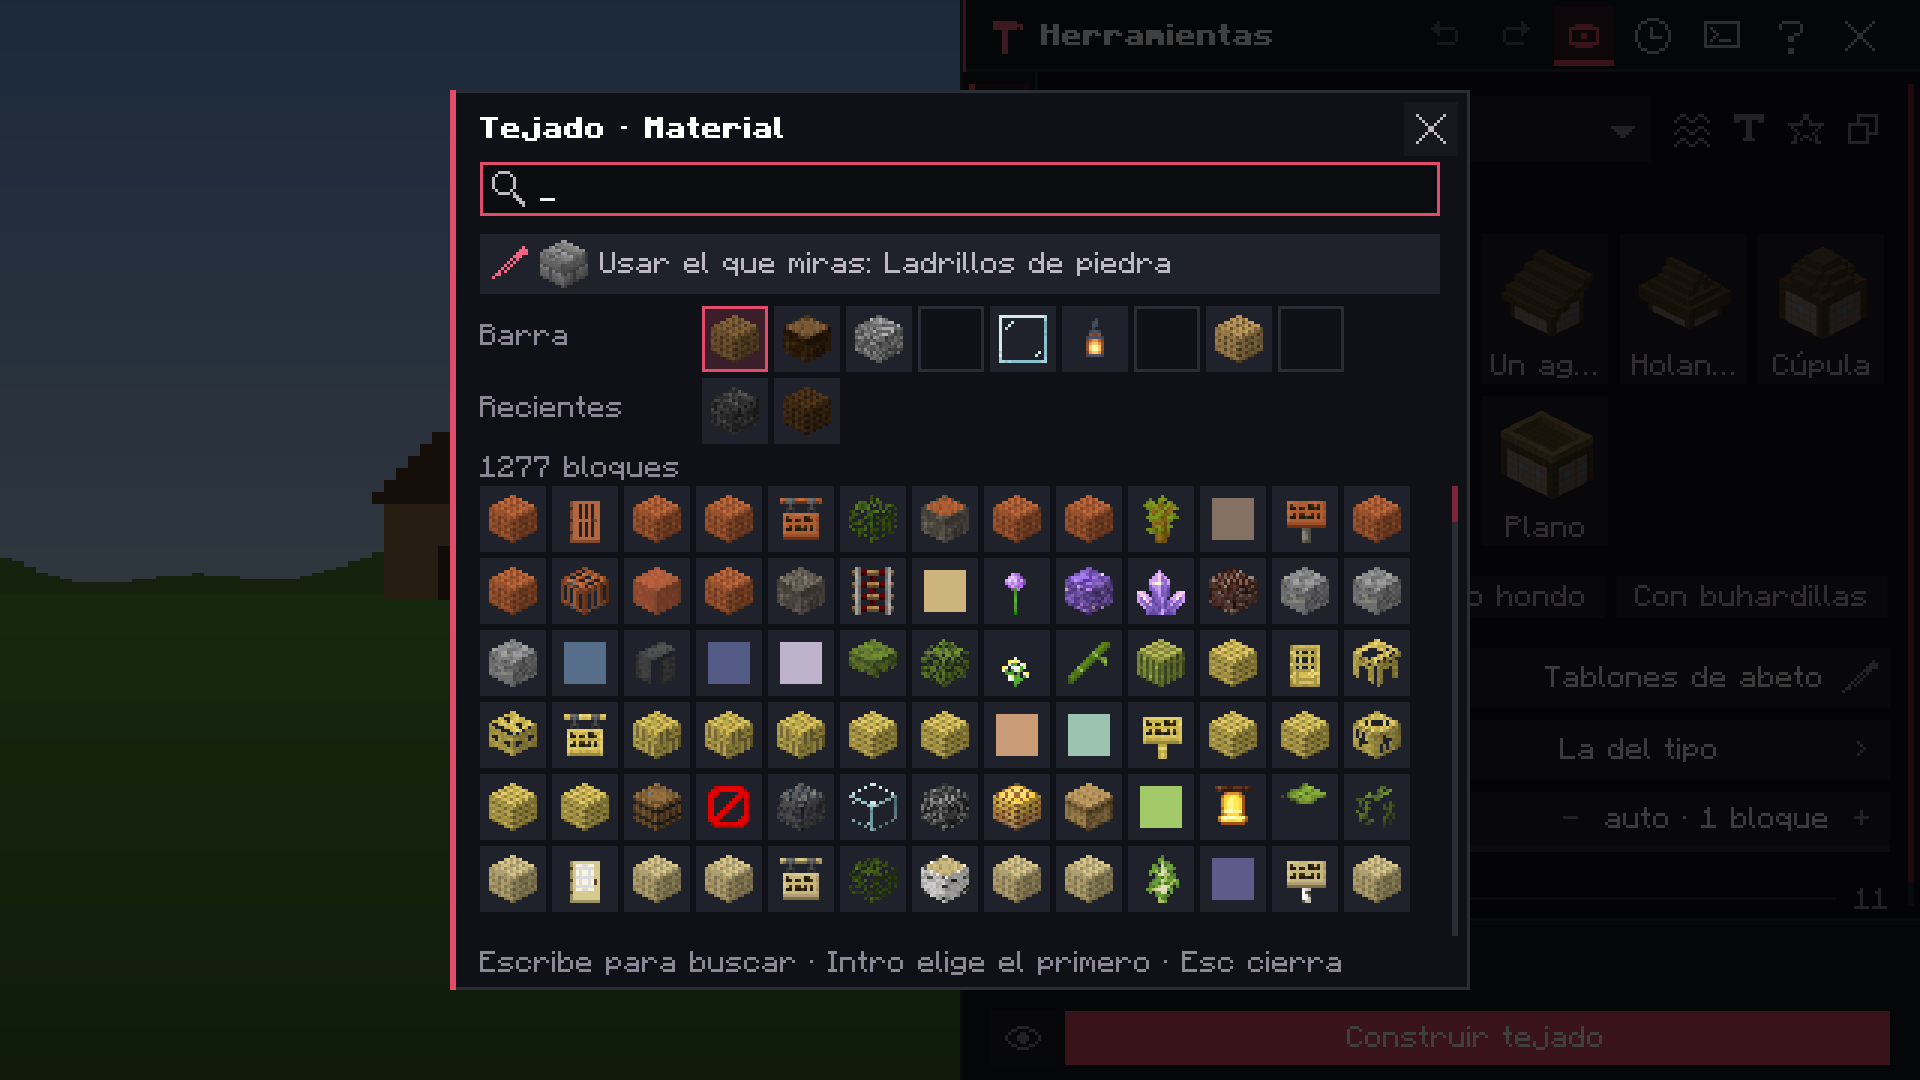
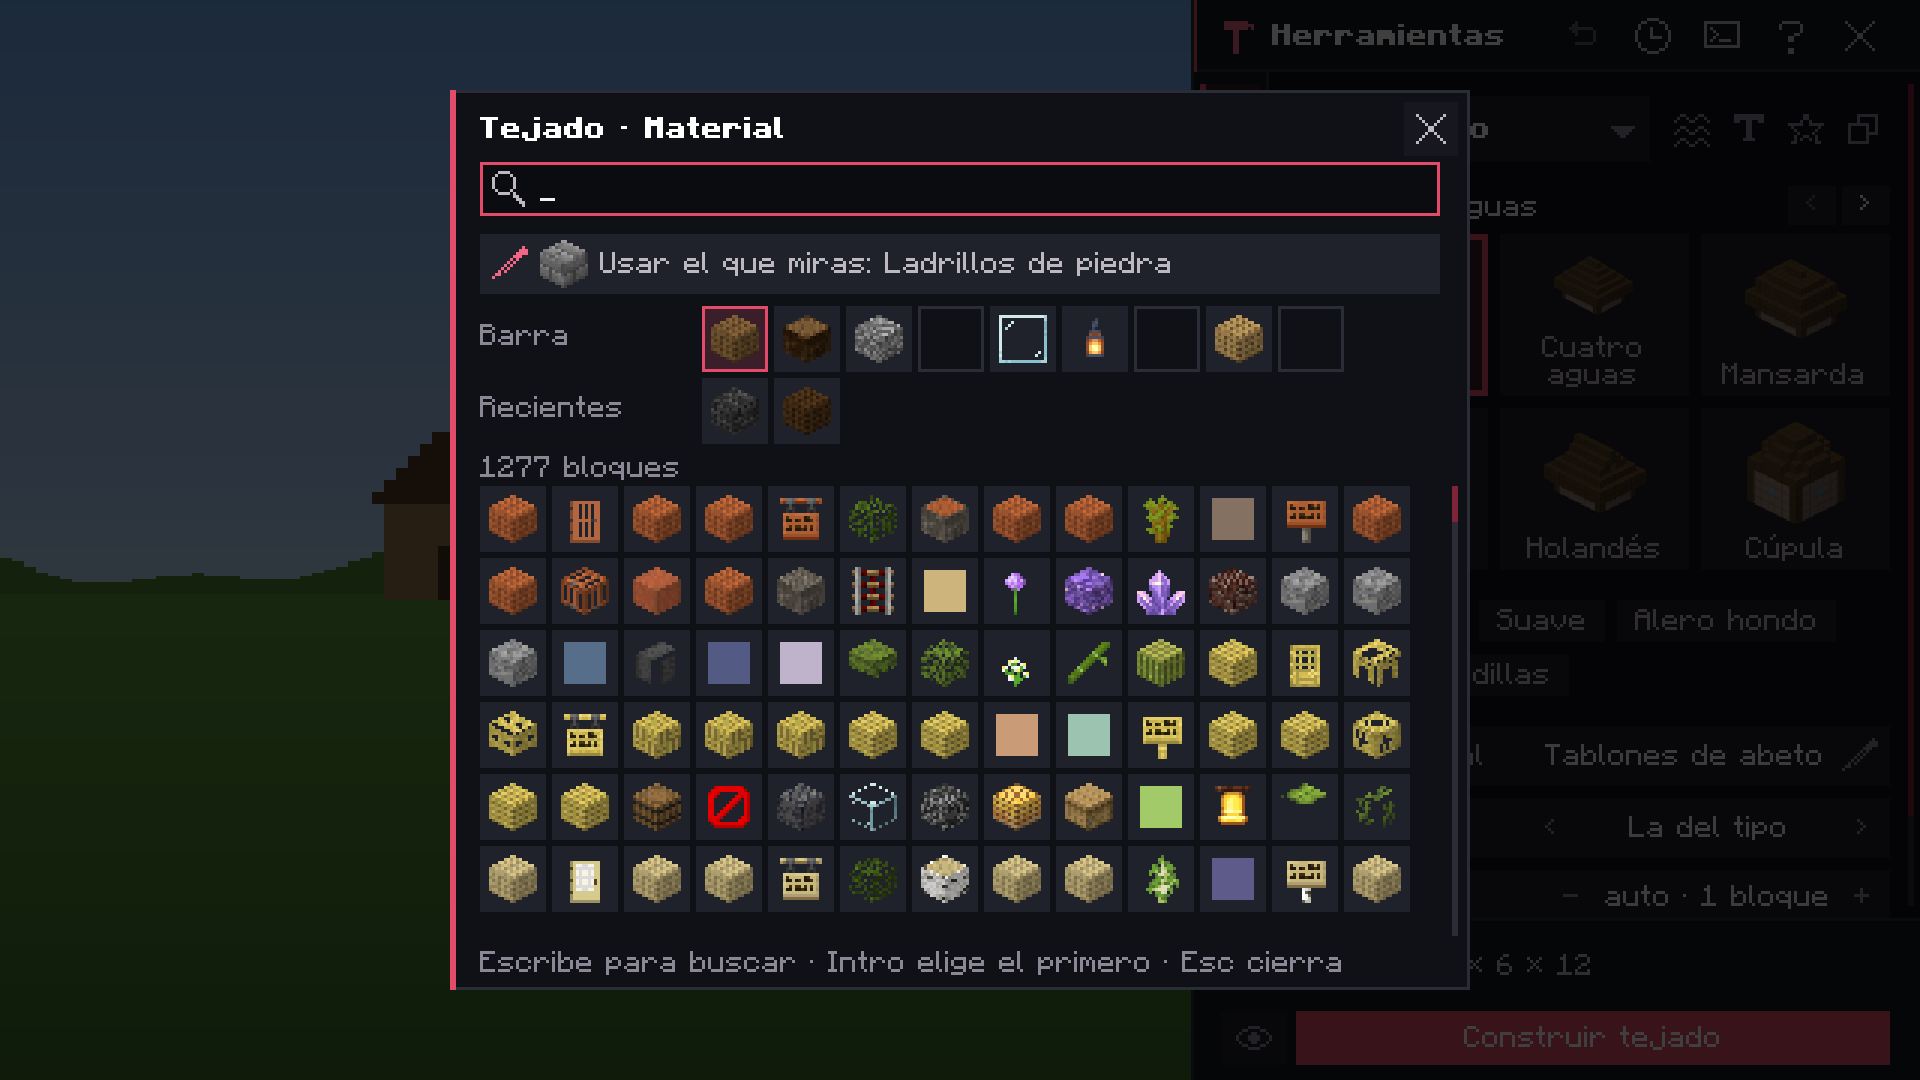
Studio: documentación y maquetas al día con el panel al 38 % y los nombres enteros
- MOD_DOCUMENTATION y CHANGELOG: ancho del panel (38 % de serie, arrastre con asa, clic derecho), lista de etapas al pasar el ratón, nombres en dos líneas y galerías completas con un panel alto; GalleryNamesTest en el apartado de pantallas pequeñas.
- Interruptores con la etiqueta en dos líneas si no cabe; los valores de los ciclos se ajustan con «…»; «Sol de ahora» en vez de «Sol (hora del mundo)».
- Maquetas regeneradas en docs/renders/studio (más la lista de etapas, la cuadrícula de figuras y 1080p con GUI 2).

diff --git a/src/main/java/com/komainu/moxia/studio/ui/StudioUi.java b/src/main/java/com/komainu/moxia/studio/ui/StudioUi.java
@@ -700,7 +700,7 @@ public final class StudioUi {
         label(label, row.x() + 8, row.centerY() - 4, previous.x() - row.x() - 12, hovered ? TEXT : TEXT_SECONDARY);
         stepButton(previous, "‹");
         stepButton(next, "›");
-        centered(value, shown, modified ? WHITE : TEXT);
+        centered(fit(value, shown.width() - 2), shown, modified ? WHITE : TEXT);
         Rect zone = new Rect(previous.x(), row.y(), row.right() - previous.x(), row.height());
         return register(row)
                 .valueZone(zone)
@@ -730,7 +730,7 @@ public final class StudioUi {
         if (modified) {
             fill(new Rect(row.x() + 3, row.centerY() - 1, 2, 2), ACCENT);
         }
-        label(label, row.x() + 8, row.centerY() - 4, track.x() - row.x() - 12, on || hovered ? TEXT : TEXT_SECONDARY);
+        nameLabel(label, row.x() + 8, row, track.x() - row.x() - 12, on || hovered ? TEXT : TEXT_SECONDARY);
         return register(row);
     }
 

diff --git a/docs/MOD_DOCUMENTATION.md b/docs/MOD_DOCUMENTATION.md
@@ -34,13 +34,16 @@ Procedural Studio se abre con `K` y permite construir mientras el mundo sigue vi
 Todo el Studio vive en un único panel opaco pegado a la derecha; el resto de la pantalla es el mundo, sin nada encima, así que el chat de abajo a la izquierda queda a la vista y el marcador del servidor no se transparenta por detrás del panel. El panel se lee de arriba abajo: **qué haces** (la barra con la etapa), **qué ajustas** (el contenido) y **qué pasa al pulsar** (el pie).
 
 - **Barra de arriba:** el icono y el nombre de la etapa y, a la derecha, deshacer y rehacer ajustes, el holograma, el **historial del mundo**, la **paleta de órdenes**, la chuleta de atajos y cerrar. Cada botón dice su atajo al pasar el ratón. Con el panel estrecho (menos de 300 píxeles) se quedan los cinco imprescindibles.
-- **Etapas** (columna izquierda): los tres grupos con su nombre encima y cada etapa con su icono, su nombre y su tecla (`1` Herramientas, `2` Trayectoria, `3` Figuras, `4` Modificadores, `5` Material, `6` Color, `7` Envejecer, `8` Planos, `9` Recetas y `0` Instancias). Si el panel no da para los nombres, se quedan los iconos con una raya entre grupo y grupo, y el nombre y la tecla salen en el tooltip. La etapa **Color** (degradados, bloques parecidos y sombreado) se explica en [Color y sombreado](#color-y-sombreado), y **Planos**, en [Etapa Planos del Studio](#etapa-planos-del-studio).
+- **Etapas** (columna izquierda): los tres grupos con su nombre encima y cada etapa con su icono, su nombre y su tecla (`1` Herramientas, `2` Trayectoria, `3` Figuras, `4` Modificadores, `5` Material, `6` Color, `7` Envejecer, `8` Planos, `9` Recetas y `0` Instancias). Si el panel no da para los nombres, se quedan los iconos con una raya entre grupo y grupo, y al pasar el ratón por la columna sale a su lado la lista con el nombre y la tecla de cada etapa, a la altura de su icono (un clic en un nombre abre la etapa). La etapa **Color** (degradados, bloques parecidos y sombreado) se explica en [Color y sombreado](#color-y-sombreado), y **Planos**, en [Etapa Planos del Studio](#etapa-planos-del-studio).
 - **Contenido:** las secciones de la etapa, desplazables con la rueda (una barra fina a la derecha indica cuánto queda). Las secciones plegables (**Más ajustes**, **Cómo se usa**…) recuerdan si estaban abiertas.
 - **Pie** (abajo, siempre visible): sobre qué se trabaja (la selección con su tamaño, los puntos de la trayectoria o el bloque que miras), la estimación **≈ N bloques**, el último mensaje unos segundos y el botón principal de la etapa: **Construir**, **Colocar plano**, **Sombrear selección** o **Envejecer selección**. Si falta algo, el botón sale apagado y dice qué («Faltan 2 puntos», «Falta la selección», «Elige una herramienta»). Mientras algo tuyo está en marcha, el pie enseña su progreso (ver [Progreso en el pie](#progreso-en-el-pie)). Los textos del pie se acortan quitando lo menos importante, nunca a medias.
-- El borde izquierdo del panel se arrastra para cambiar su ancho (entre 300 y 470 píxeles de GUI, sin pasar de media pantalla); el ancho se recuerda.
+- **Ancho del panel:** de serie, el 38 % de la pantalla, para dejar el mundo a la vista (a 1080p con GUI 3, 243 de 640 píxeles de GUI; antes era la mitad). El borde izquierdo, con un asa a media altura, se arrastra entre 230 píxeles y el 45 % de la pantalla (470 como mucho); lo elegido se guarda en `studio.json` como parte de la pantalla, así que vale igual con otra escala de GUI. Clic derecho en el borde: el de serie.
+- **Los nombres se leen enteros:** en las galerías, las cuadrículas de herramientas y figuras y la biblioteca de planos, un nombre que no cabe en una línea va en dos (partido por palabras; los planos, tras `_` o `-`), y si ni así cabe, la cuadrícula pone menos columnas.
 - **Trayectoria** cuenta los nodos (`3 / 32 nodos`), dice si está abierta o cerrada y tiene **Añadir aquí**, **Deshacer punto**, **Cerrar / Abrir trayectoria** y **Limpiar**, la lista de nodos con sus coordenadas (un clic elige el nodo para moverlo con sus flechas) y **Usar con**: Figura, Río, Rampa, Árbol o Loft, que lleva a esa etapa o herramienta con los puntos ya puestos. «Cómo se usa» el puntero queda plegado.
 - El nombre de la receta, **Guardar** y la exportación o importación de `.krecipe` están en la etapa **Recetas**; Construir usa ese mismo nombre.
 - Los interruptores (Fusión, Kitbash, Cerrar huecos, Quitar bloques sueltos, Invertir dirección, Agua estancada) son filas con un pulsador a la derecha. Fusión y Kitbash solo enseñan sus ajustes cuando están activados, y Alcance y Separación solo con un modo de superficie.
+
+![Nombres de las etapas al pasar el ratón por los iconos](renders/studio/1080p_gui3_navegacion_es.png)
 
 ### Encontrar figuras
 
@@ -119,8 +122,8 @@ La etapa **Herramientas** (`1`) lleva al Studio las herramientas que antes solo 
 | Utilidades | Texto, Materiales, Gravedad, Nieve, Drenar, Inundar, Bioma | `text`, `analyze`, `gravity`, `snow`, `drain`, `waterlog`, `biome` (y `pincel biome`) |
 | Modos | Simetría, Capacidades | `symmetry on <modo>`, `off`, `center …`, `worldedit on\|off`; `capability <id> on\|off`, `capability option …` |
 
-- **Elegir:** sin herramienta elegida, la etapa es una cuadrícula de iconos con su nombre, agrupada como en la tabla (con ★ Favoritas arriba si hay) y con un buscador (`Ctrl+F` o `/`) por nombre, orden, alias y descripción, sin tildes. Al elegir una, la cuadrícula se pliega en una fila con su icono y su nombre (pulsarla la vuelve a abrir), sus **recientes** para cambiar de un clic, la ★ y **copiar la orden** al portapapeles.
-- **Miniaturas:** lo que se elige viendo sale como galería de miniaturas con el nombre debajo, dibujadas por el propio generador: las especies de árbol (con `TreeGrower`), los tipos de roca (`RockShaper`), los tipos de tejado sobre una casa de 9×7 (`RoofGenerator`) y los 20 sellos de relieve. Se pintan en segundo plano la primera vez y luego se reutilizan. Con muchas, la galería pasa de página con ‹ ›.
+- **Elegir:** sin herramienta elegida, la etapa es una cuadrícula de iconos con su nombre entero (en dos líneas si hace falta), agrupada como en la tabla (con ★ Favoritas arriba si hay) y con un buscador (`Ctrl+F` o `/`) por nombre, orden, alias y descripción, sin tildes. Al elegir una, la cuadrícula se pliega en una fila con su icono y su nombre (pulsarla la vuelve a abrir), sus **recientes** para cambiar de un clic, la ★ y **copiar la orden** al portapapeles.
+- **Miniaturas:** lo que se elige viendo sale como galería de miniaturas con el nombre debajo, dibujadas por el propio generador: las especies de árbol (con `TreeGrower`), los tipos de roca (`RockShaper`), los tipos de tejado sobre una casa de 9×7 (`RoofGenerator`) y los 20 sellos de relieve. Se pintan en segundo plano la primera vez y luego se reutilizan. Bajo cada una, su nombre entero: la galería pone tantas columnas como dejen caber cada nombre en dos líneas como mucho («Cuatro aguas», «Roble oscuro»). Con un panel alto (380 píxeles de contenido o más, como 1080p con GUI 2) se ven todas las opciones a la vez; si no, dos filas (una en compacto) y ‹ › para pasar de página, que empieza siempre por la elegida.
 - **Ajustes esenciales** a la vista y el resto en **Más ajustes**, plegado, con cuántos hay o cuántos has cambiado («2 cambiados»). Solo salen los ajustes que usa la opción elegida (la altura de la cúpula no sale en un tejado a dos aguas). Los números **auto** no llevan bandera: vale el de la herramienta (la altura de la especie, el radio del tipo de roca…) y se ve en gris junto a «auto».
 - **Presets** (una fila de pastillas: Joven, Viejo, Azotado, Pelado; Empinado, Con buhardillas…; el tooltip dice qué cambian), **Azar** (`R`) para una semilla nueva y, en árboles y rocas, los **presets guardados** del jugador (`#nombre`). En **Más ajustes**, las acciones: **Al pincel** (árbol, roca, bioma), **Estimar** (tejado, loft y terreno, con `-e`), **Guardar preset** y, en simetría, **Desactivar**, **Centro aquí**, **Entre bloques** y **Centro de la selección**.
 - **Bloques:** cada bloque es una fila con su icono, su nombre traducido y un **cuentagotas** que pone el bloque que miras. Si no hay bloque elegido, la fila dice qué se usará («Como el tejado», «El de los muros», «De la familia del material»). Al pulsar la fila se abre la **biblioteca de bloques** (ver [Elegir bloques](#elegir-bloques)).
@@ -149,7 +152,7 @@ La biblioteca de bloques se abre al pulsar cualquier fila de bloque (material de
 
 ### Lo que se recuerda
 
-En `config/komaedit/studio.json`, por jugador y en su equipo: la etapa y la herramienta en las que lo dejaste, **los ajustes de cada herramienta** (se guardan 2 s después del último cambio y al cerrar), el desplazamiento de cada etapa y de cada herramienta, las secciones abiertas, el modo de vista previa, las favoritas y las recientes (figuras, herramientas y bloques) y el ancho del panel. Un archivo de una versión anterior se lee igual; uno roto se ignora.
+En `config/komaedit/studio.json`, por jugador y en su equipo: la etapa y la herramienta en las que lo dejaste, **los ajustes de cada herramienta** (se guardan 2 s después del último cambio y al cerrar), el desplazamiento de cada etapa y de cada herramienta, las secciones abiertas, el modo de vista previa, las favoritas y las recientes (figuras, herramientas y bloques) y la parte de la pantalla del panel. Un archivo de una versión anterior se lee igual; uno roto se ignora.
 
 ### Progreso en el pie
 
@@ -192,11 +195,11 @@ Con menos de 300 píxeles de alto escalado (854×480 con GUI 2, 1080p con GUI 4)
 ![Árbol a 854×480 con GUI 2](renders/studio/854_gui2_arbol_es.png)
 
 - Las etapas encogen su alto (hasta 12 píxeles, el de su icono) y, si hace falta, el hueco entre ellas (a 1 píxel) para que las diez quepan sin desplazarse con cualquier escala de GUI.
-- Con menos de 600 píxeles de ancho escalado el panel mide 230 píxeles, para dejar al mundo al menos la mitad de la pantalla. Ahí el chat vanilla (320 píxeles) puede quedar en parte bajo el panel.
+- Con menos de 600 píxeles de ancho escalado el panel se queda en 230 píxeles (el mínimo), para dejar al mundo al menos la mitad de la pantalla. Ahí el chat vanilla (320 píxeles) puede quedar en parte bajo el panel.
 - Los textos que no caben se recortan con «…»; el texto completo sale en el tooltip.
 - Con menos de 330 píxeles de alto la chuleta se muestra en dos columnas.
 - Lo que queda desplazado bajo la barra o el pie del panel no responde a clics.
-- El reparto lo calcula `StudioLayout` sin Minecraft y sus pruebas lo comprueban a 1080p, 1440p, 4K, 720p, 1366×768 y 854×480 con todas las escalas de GUI: nada se sale del panel, nada se solapa, las diez etapas y sus grupos caben, la barra de progreso y los dos botones del pie caben y el panel no pisa el chat cuando hay sitio.
+- El reparto lo calcula `StudioLayout` sin Minecraft y sus pruebas lo comprueban a 1080p, 1440p, 4K, 720p, 1366×768 y 854×480 con todas las escalas de GUI: nada se sale del panel, nada se solapa, las diez etapas y sus grupos caben, la barra de progreso y los dos botones del pie caben, el panel no pisa el chat cuando hay sitio y de serie no pasa del 40 % de una pantalla grande. `GalleryNamesTest` comprueba que ningún nombre de galería, herramienta o figura se corta a 1080p con GUI 2, 3 y 4, 1440p con GUI 3 y 854×480 con GUI 2, en los dos idiomas.
 
 ### Cómo está hecho
 
@@ -4151,8 +4154,8 @@ La etapa **Planos** (`8`) es la biblioteca con miniaturas. El plano elegido se c
 
 - **Buscador** (clic o `/` en la etapa): lo mismo que `search`. `Esc` lo borra y `Intro` elige el primero. A su lado, **Mostrar**: Todos, Míos o Servidor (un clic o la rueda).
 - **Etiquetas:** una fila de pastillas con las más usadas que caben: un clic filtra por la etiqueta y otro la quita.
-- **Plano elegido**, en una tarjeta de alto fijo encima de la cuadrícula (así no salta al elegir): nombre, tamaño, bloques y autor, y los botones **Estampar** (el pincel en la mano con ese plano), **Radio** (auto, o el del pincel, con un clic o la rueda), **Cargar** (al portapapeles) y **Compartir** (en los tuyos, si puedes compartir). Sin plano elegido y con una sola etiqueta activa sale **Estampar #etiqueta**, para estamparla entera. Sin permiso, el botón sale apagado y lo dice al pasar el ratón.
-- **Cuadrícula** de miniaturas con el nombre y el tamaño debajo, tantas columnas como quepan (como poco dos); los compartidos llevan una estrella dorada. Un clic elige el plano.
+- **Plano elegido**, en una tarjeta de alto fijo encima de la cuadrícula (así no salta al elegir; si sus botones no caben en una fila, la tarjeta tiene dos): nombre, tamaño, bloques y autor, y los botones **Estampar** (el pincel en la mano con ese plano), **Radio** (auto, o el del pincel, con un clic o la rueda), **Cargar** (al portapapeles) y **Compartir** (en los tuyos, si puedes compartir). Sin plano elegido y con una sola etiqueta activa sale **Estampar #etiqueta**, para estamparla entera. Sin permiso, el botón sale apagado y lo dice al pasar el ratón.
+- **Cuadrícula** de miniaturas con el nombre (en dos líneas, partido tras `_` o `-`, si no cabe en una) y el tamaño debajo, tantas columnas como quepan (como poco dos); los compartidos llevan una estrella dorada. Un clic elige el plano.
 - La biblioteca se pide al abrir la etapa. Sin planos, **Guardar el portapapeles…** abre el chat con `/komaedit blueprint save ` escrito.
 - En el modo compacto no salen las pastillas de etiquetas y la tarjeta del plano elegido enseña el nombre y el tamaño en una sola línea (el resto, en su tooltip).
 - Las miniaturas se piden solo para las tarjetas que se ven y llegan **en trozos de 4 KiB**, como mucho 16 KiB por tick y jugador, para no atascar la conexión. El cliente las guarda por su huella (SHA-256): no se vuelven a pedir mientras el plano no cambie, caben 256 en memoria y se borran al salir del servidor.

diff --git a/CHANGELOG.md b/CHANGELOG.md
@@ -4,7 +4,9 @@
 
 ### Procedural Studio: menos texto, más claro
 
-- **Etapas en tres grupos:** Crear (`1` Herramientas, `2` Trayectoria, `3` Figuras), Ajustar (`4` Modificadores, `5` Material, `6` Color, `7` Envejecer) y Biblioteca (`8` Planos, `9` Recetas, `0` Instancias). **Cambian las teclas:** Herramientas pasa del `0` al `1`, y Estructuras deja de ser una etapa y es una familia de Figuras. La barra de arriba lleva el nombre de la etapa y los botones; ya no hay cabecera con subtítulo.
+- **Etapas en tres grupos:** Crear (`1` Herramientas, `2` Trayectoria, `3` Figuras), Ajustar (`4` Modificadores, `5` Material, `6` Color, `7` Envejecer) y Biblioteca (`8` Planos, `9` Recetas, `0` Instancias). **Cambian las teclas:** Herramientas pasa del `0` al `1`, y Estructuras deja de ser una etapa y es una familia de Figuras. La barra de arriba lleva el nombre de la etapa y los botones; ya no hay cabecera con subtítulo. Con la navegación en iconos, al pasar el ratón sale a su lado la lista con el nombre y la tecla de cada etapa.
+- **El panel deja sitio al mundo:** de serie el 38 % del ancho (a 1080p con GUI 3 era la mitad), arrastrable desde su borde (con un asa) entre 230 píxeles y el 45 %; se guarda como parte de la pantalla y el clic derecho en el borde vuelve al de serie.
+- **Ningún nombre cortado:** bajo las miniaturas, en las cuadrículas de herramientas y figuras y en los planos, el nombre va en dos líneas si no cabe, y la cuadrícula pone menos columnas si hace falta. Con un panel alto las galerías enseñan todas sus opciones.
 - **Herramientas:** cuadrícula de iconos por grupos (Naturaleza, Tejados, Terreno, Utilidades y Modos) que se pliega al elegir una, dejando a la vista su nombre, sus recientes, la ★ y copiar la orden. El panel ya no enseña órdenes `/komaedit` ni descripciones largas: la ayuda va en tooltips cortos. Los ajustes esenciales salen a la vista y el resto en **Más ajustes** (plegado, con cuántos has cambiado); los presets, en una fila de pastillas.
 - **Miniaturas** con el nombre debajo para lo que se elige viendo: especies de árbol, tipos de roca, tipos de tejado (sobre una casa de 9×7) y sellos de relieve, dibujadas por el propio generador en segundo plano. **Figuras** funciona igual: cuadrícula por familias que se pliega en la elegida.
 - **Controles numéricos con unidad** (`18 bloques`, `50 %`, `45°`, `×1,5`, `Y 64`) y una barra con el rango, el valor y una marca en el de serie; un punto rosa dice que ya no es el de serie. Clic derecho lo devuelve, arrastrar lo desliza (recorre el rango en unos 240 píxeles; con Mayús, fino), un clic deja escribirlo (con la unidad o sin ella) y el tooltip dice rango, de serie y gestos.
@@ -15,7 +17,7 @@
 - **Historial del mundo** (el reloj de la barra): los últimos 12 cambios de tu sesión de WorldEdit con su nombre (el de la operación, «Trazo», «Pegar»…) y sus bloques; un clic deshace o rehace hasta ahí. El servidor lo manda en el estado del Studio (`EditHistory`).
 - **Vista previa en tres modos** (el ojo del pie): sin vista previa, al construir, o **en vivo**, que se rehace sola al dejar de tocar un ajuste (0,7 s de espera, 1,5 s entre envíos, nada mientras otra obra está en marcha y solo hasta 64 000 bloques).
 - **Se recuerda** en `studio.json`: la etapa y la herramienta, los ajustes de cada herramienta, el desplazamiento de cada etapa y herramienta y las secciones abiertas. Los archivos de antes se leen igual.
-- **Planos:** el plano elegido va en una tarjeta de alto fijo encima de la cuadrícula (Estampar, Radio, Cargar, Compartir) y se coloca con el botón del pie; Mostrar (Todos, Míos, Servidor) va junto al buscador y las etiquetas en una fila.
+- **Planos:** el plano elegido va en una tarjeta de alto fijo encima de la cuadrícula (Estampar, Radio, Cargar, Compartir; dos filas si no caben) y se coloca con el botón del pie; Mostrar (Todos, Míos, Servidor) va junto al buscador y las etiquetas en una fila.
 - Clics para cuatro tareas, contados por `TaskClicksTest`: plantar un abeto donde miras, 4 (2 las siguientes veces, porque abre en el árbol); tejado a cuatro aguas sobre la selección, 4 sin desplazar (cambiar el material por el que miras, +1); río por 4 puntos, 7; estampar un plano, 3 sin desplazar.
 - Código: todo el Studio es común y sin Minecraft (`StudioView`, `StudioUi` sobre un `StudioCanvas`, `StudioLayout`); el juego lo pinta con `DrawContextCanvas` y las pruebas con `ImageCanvas` (fuente e iconos del juego), así que las maquetas son la pantalla de verdad. Pruebas JUnit nuevas: controles numéricos (rango, de serie, restablecer, arrastre), paleta, modo compacto, pie, vista previa en vivo, historial, recordar ajustes y clics de las tareas. Maquetas en `docs/renders/studio/` (1080p con GUI 3 y 4 y 854×480 con GUI 2, en español e inglés) y las de antes en `docs/renders/studio/antes/`.
 
